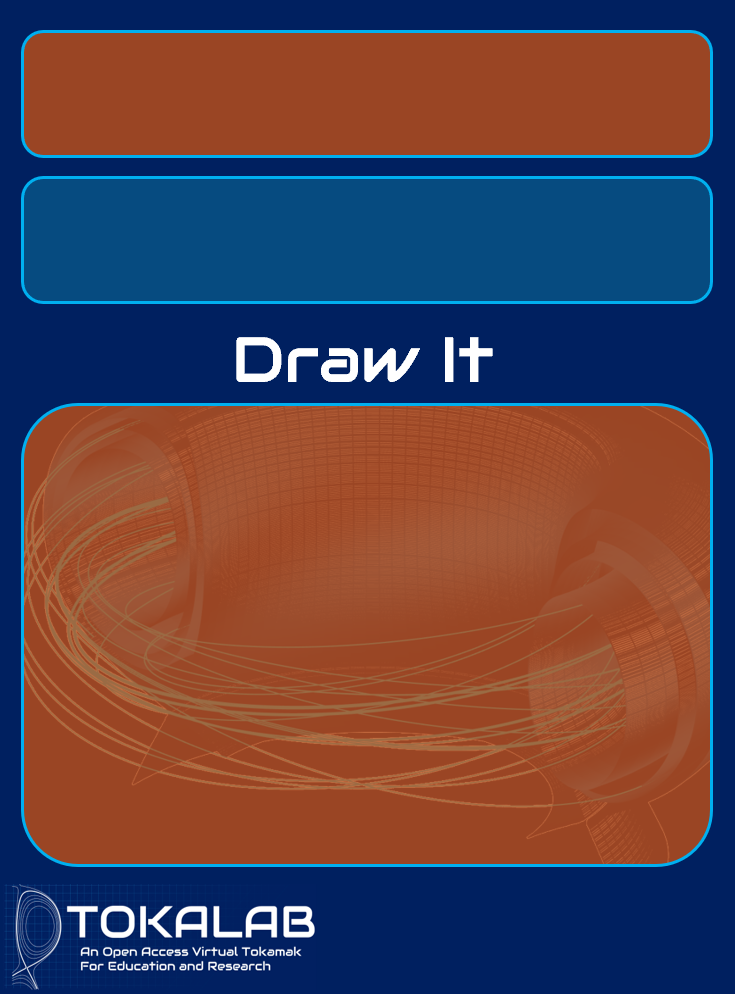
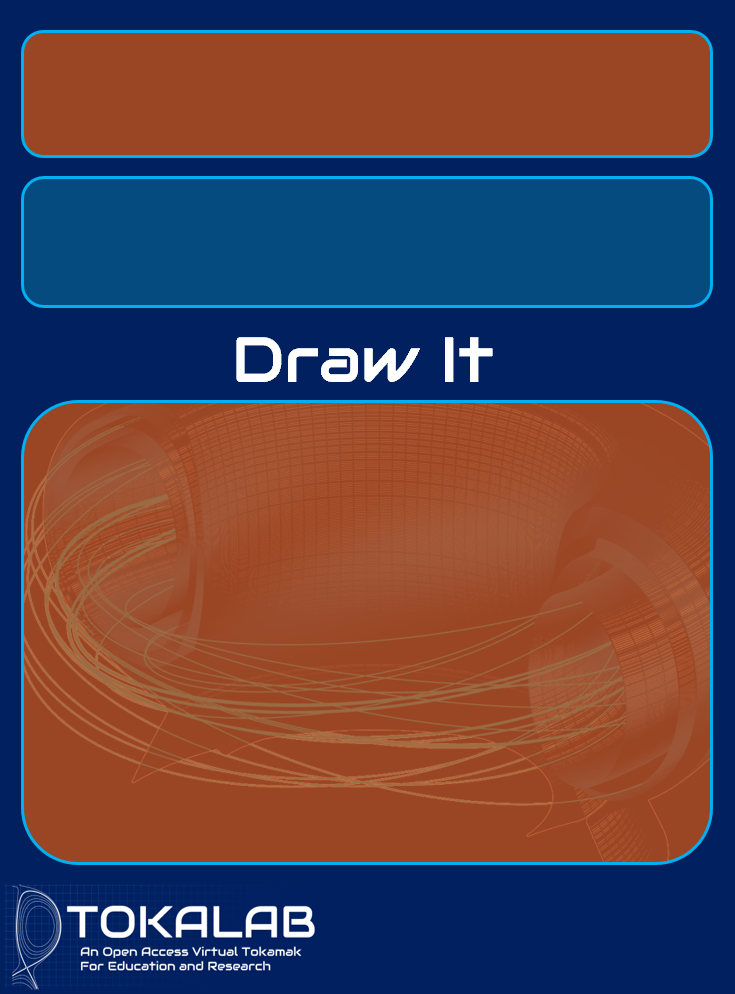
ok

diff --git a/games/tokacards/style.css b/games/tokacards/style.css
@@ -118,9 +118,40 @@ h1 {
 .mode-selector {
   display: flex;
   justify-content: center; /* centra l'intero gruppo */
-  gap: 20px;               /* distanza tra i bottoni */
+  gap: 12px;               /* distanza tra i bottoni */
   margin-bottom: 20px;
-  flex-wrap: wrap;          /* va a capo su schermi piccoli */
+  flex-wrap: wrap;
+}
+
+.mode-option {
+  min-width: 100px;       /* larghezza minima per evitare sovrapposizioni */
+  flex: 1 1 auto;         /* si adatta allo spazio disponibile */
+  display: flex;
+  justify-content: center;
+}
+
+.mode-option label {
+  display: inline-block;
+  width: 100%;
+  padding: 12px 0;
+  text-align: center;
+  font-size: 16px; /* riduci leggermente per mobile */
+  border-radius: 8px;
+  background-color: #eee;
+  border: 2px solid #444;
+  cursor: pointer;
+  font-weight: bold;
+  transition: background-color 0.2s, color 0.2s;
+}
+
+@media (max-width: 420px) {
+  .mode-selector {
+    gap: 8px;
+  }
+  .mode-option label {
+    font-size: 14px;
+    padding: 10px 5px;
+  }
 }
 
 .mode-option input[type="checkbox"] {

diff --git a/games/tokacards/layouts.css b/games/tokacards/layouts.css
@@ -23,9 +23,9 @@
 }
 
 #card.mode-forbidden .description {
-  top: 20%;
+  top: 24.5%;
   left: 50%;
-  transform: translateX(-50%);
+  transform: translate(-50%,-50%);
   width: 90%;
   font-size: 18px;
 }
@@ -83,9 +83,9 @@
 }
 
 #card.mode-mimic .description {
-  top: 20%;
+  top: 24.5%;
   left: 50%;
-  transform: translateX(-50%);
+  transform: translate(-50%,-50%);
   width: 90%;
   font-size: 18px;
 }
@@ -140,9 +140,9 @@
 }
 
 #card.mode-drawit .description {
-  top: 20%;
+  top: 24.5%;
   left: 50%;
-  transform: translateX(-50%);
+  transform: translate(-50%,-50%);
   width: 90%;
   font-size: 18px;
 }
